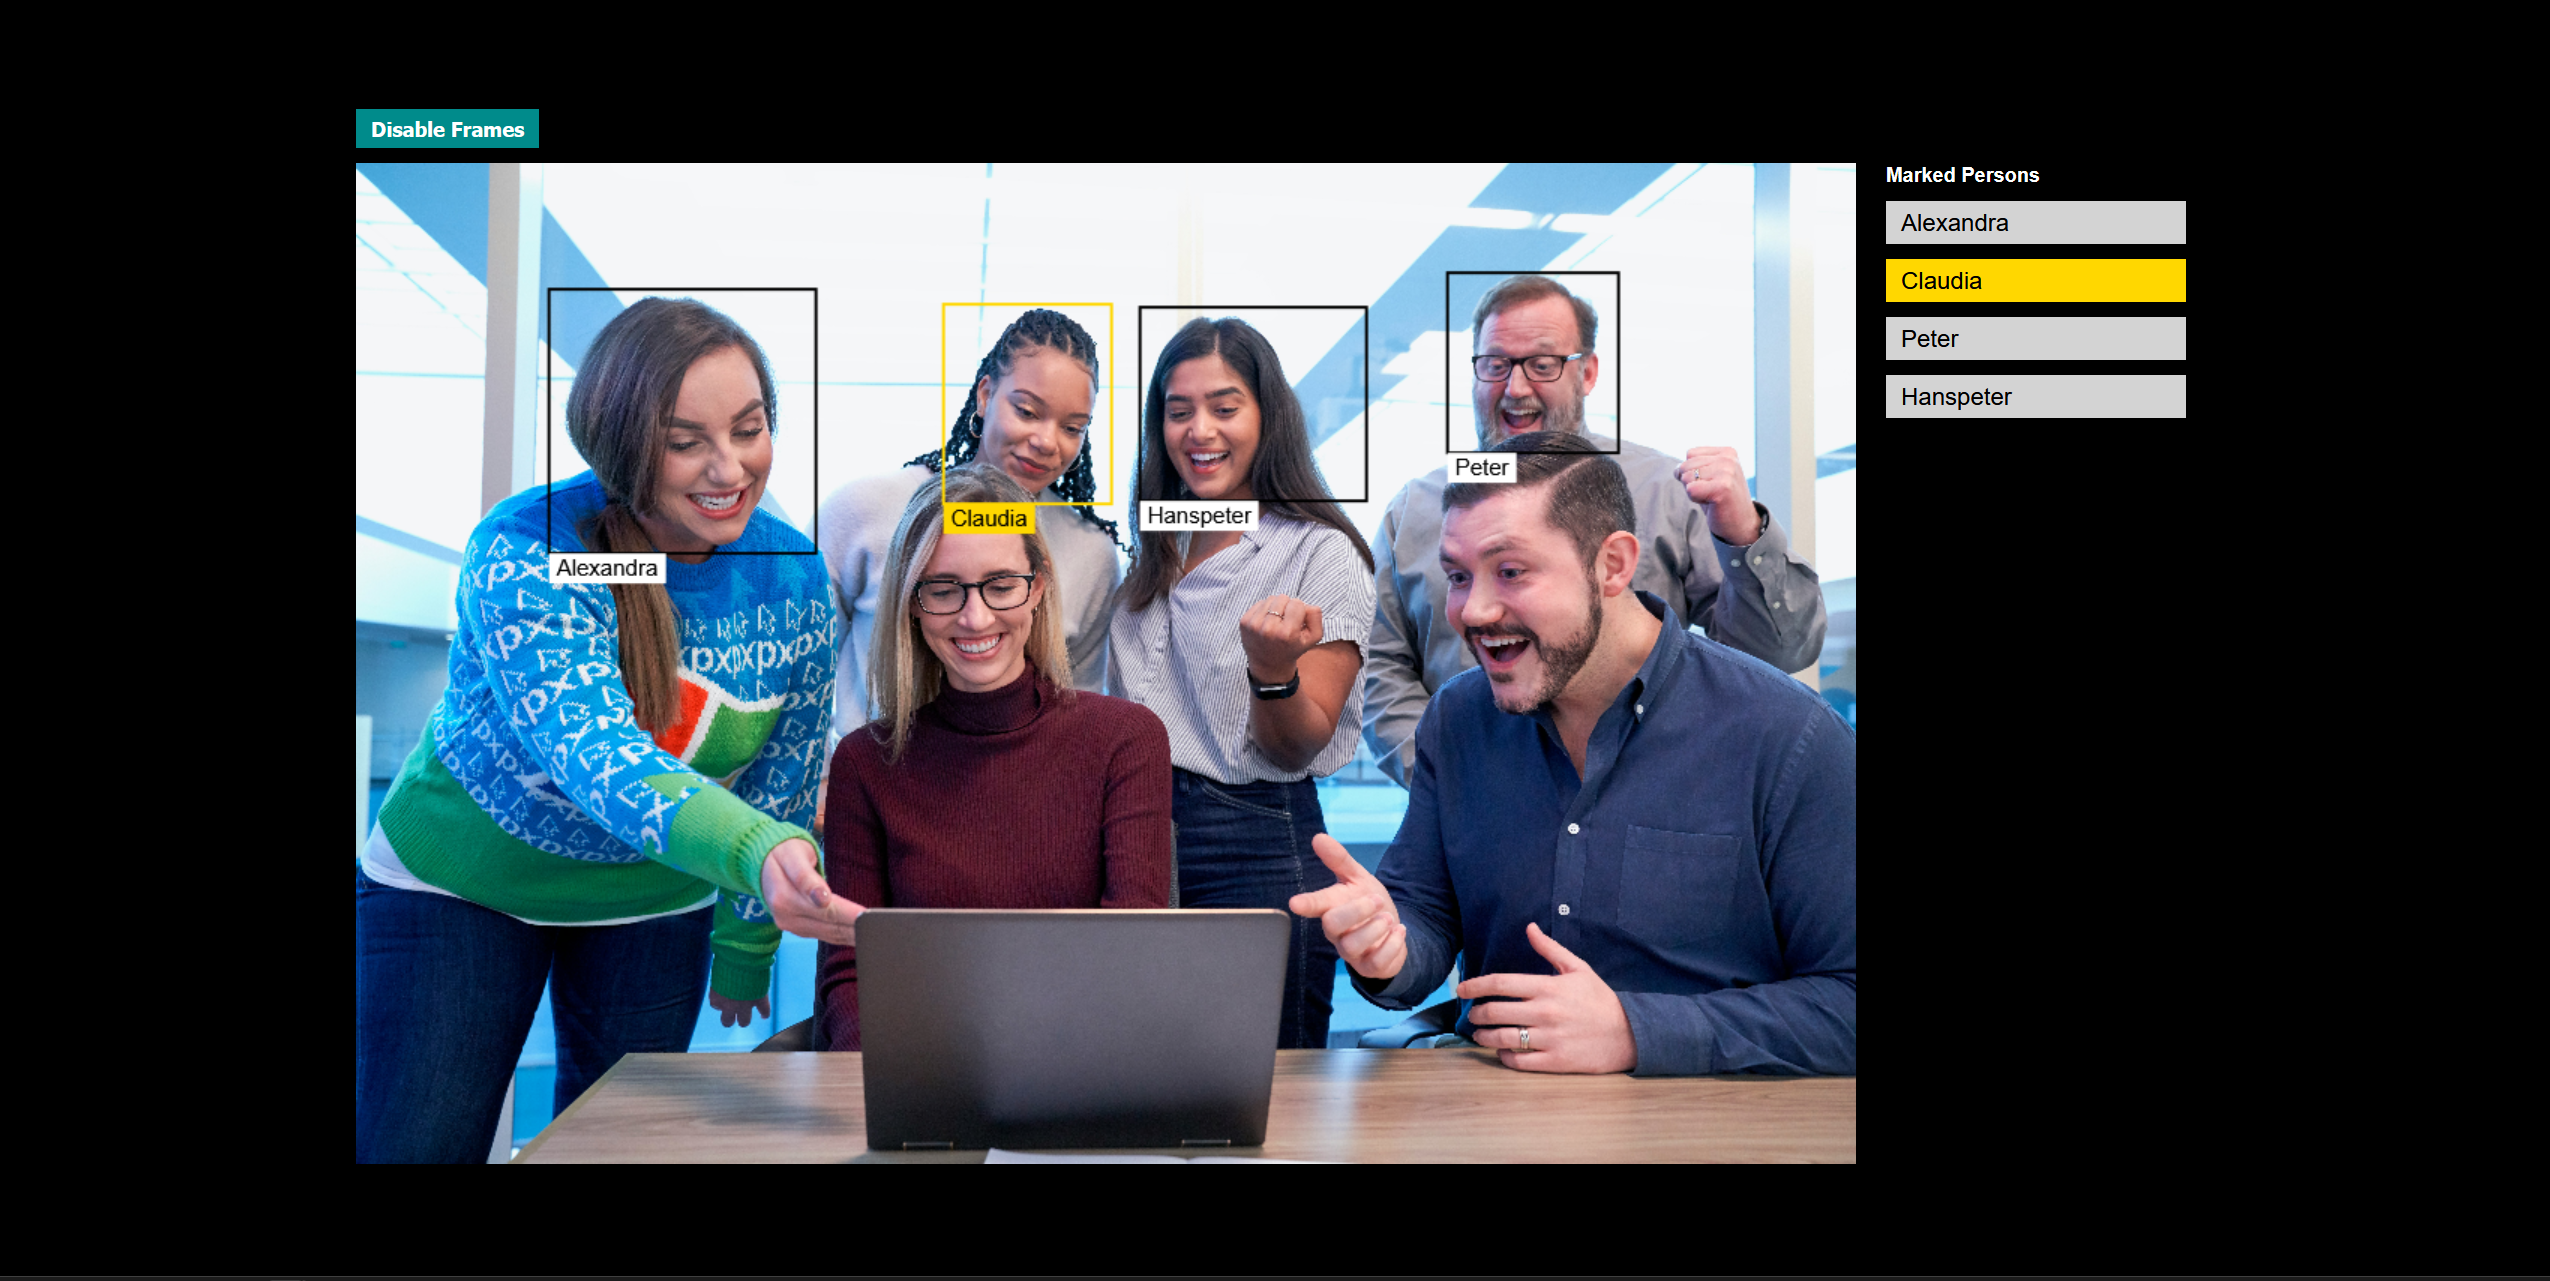
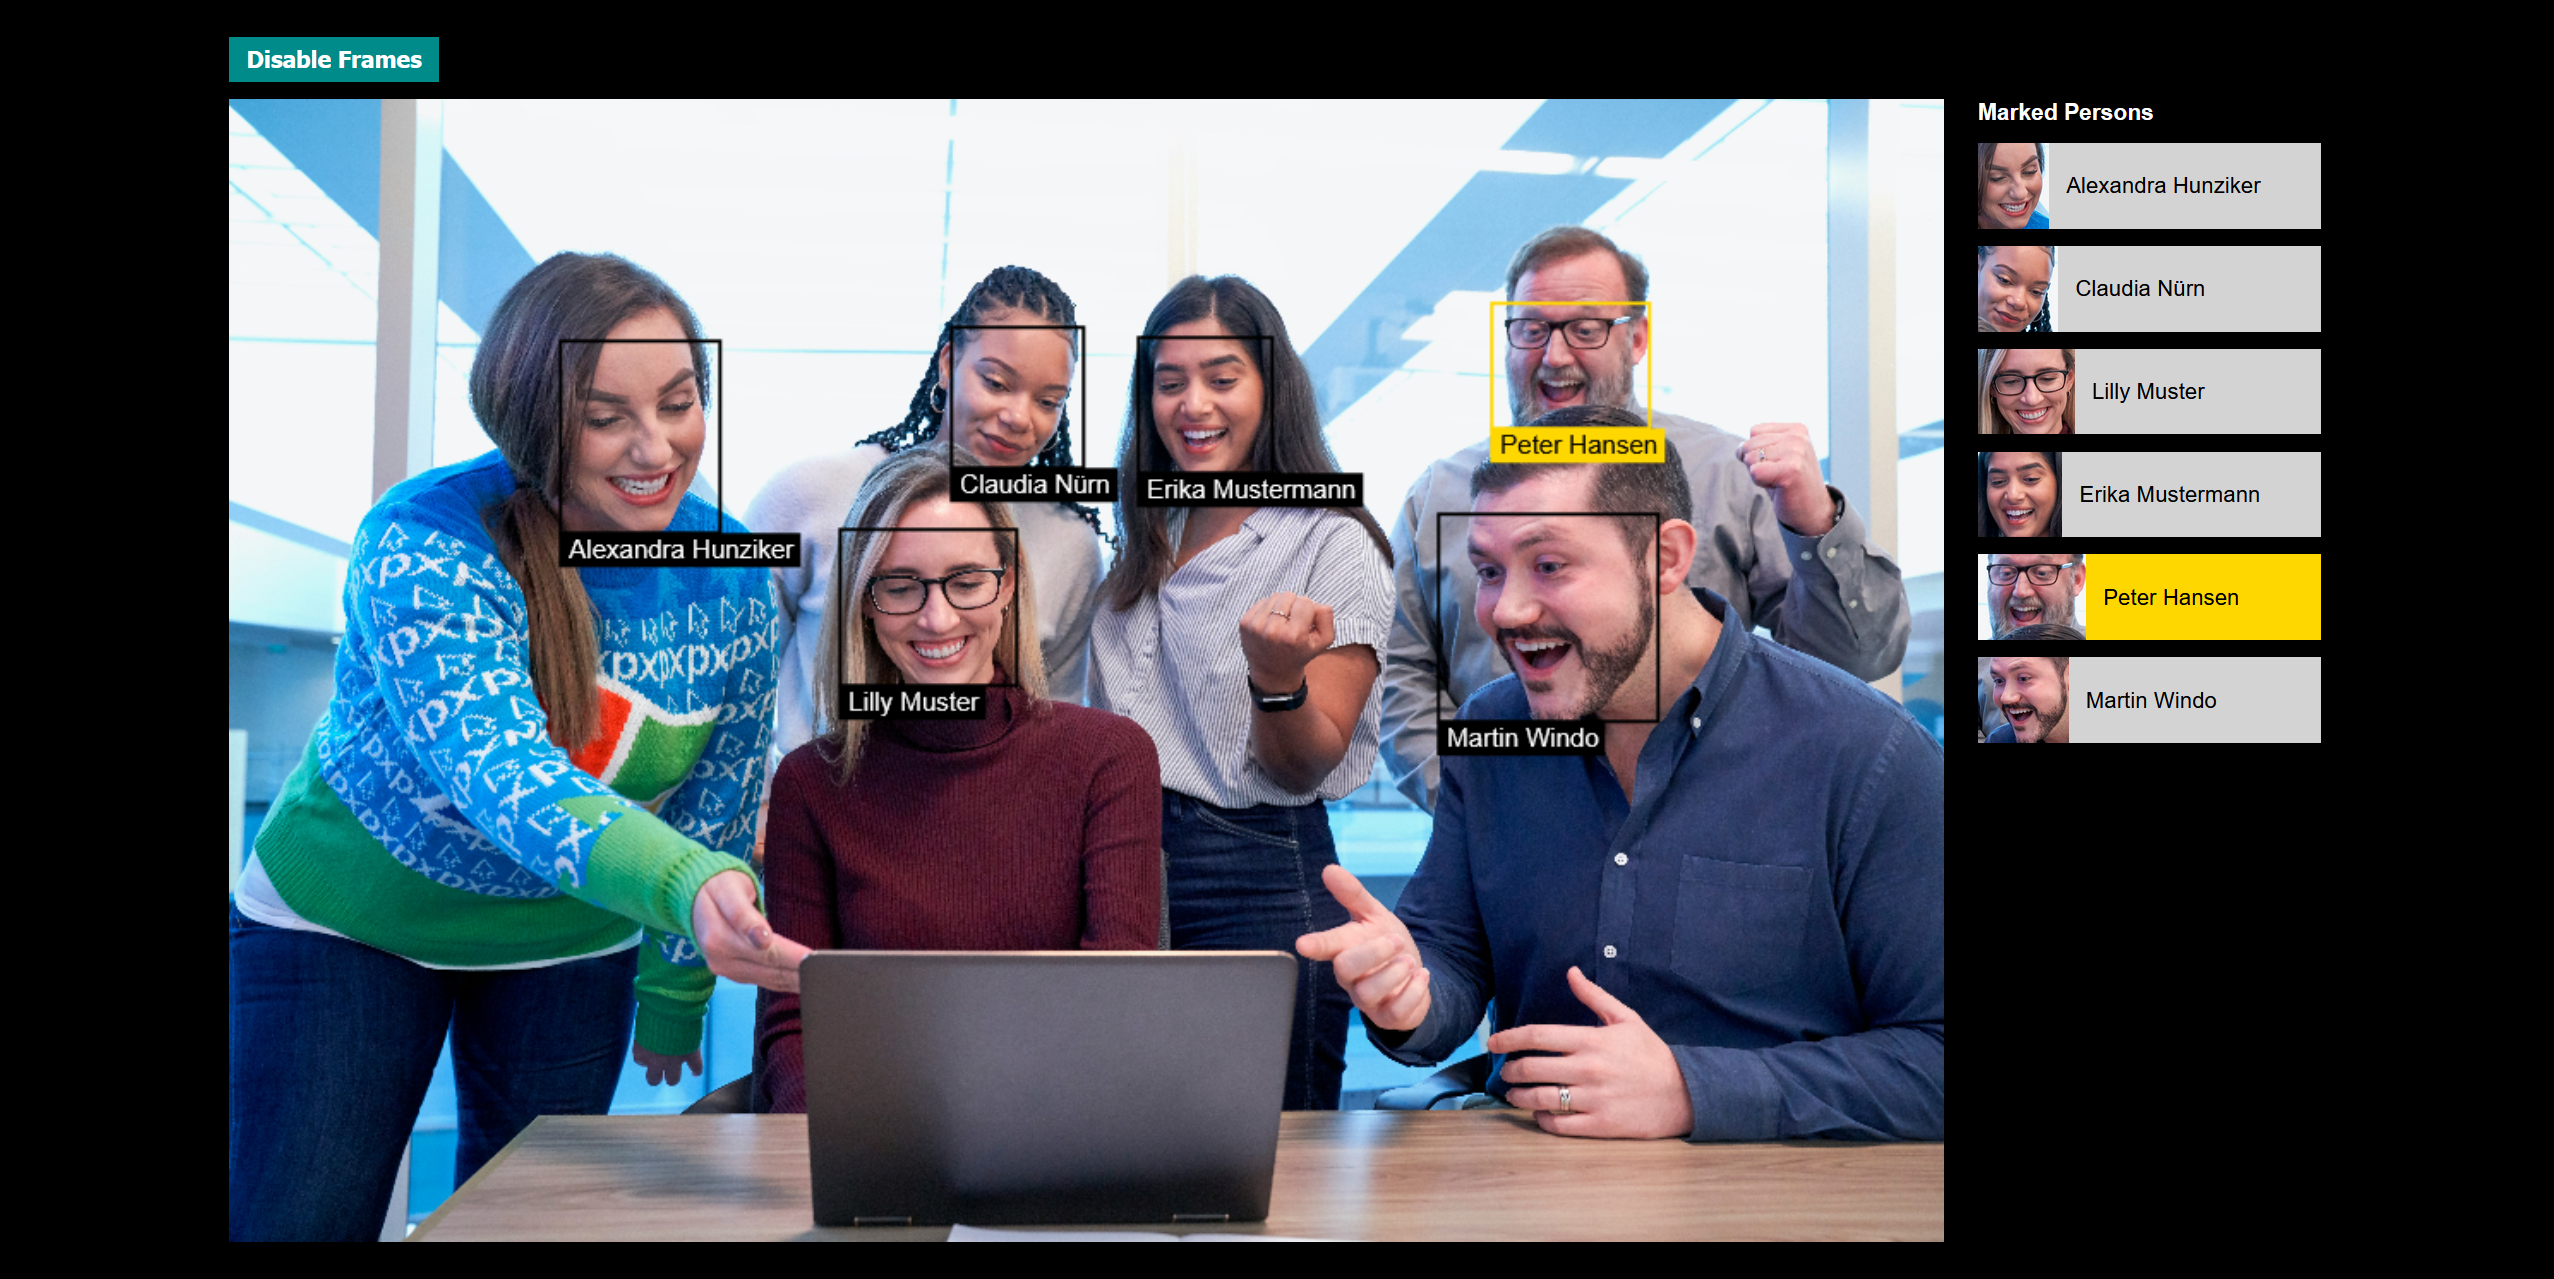
add person image cutout

diff --git a/JavaScript/imageMarker/script.js b/JavaScript/imageMarker/script.js
@@ -9,23 +9,33 @@ let showFrames = true;
 const databaseUsers = [
   {
     id: 1,
-    name: "Alexandra",
+    name: "Alexandra Hunziker",
     username: "alex123",
   },
   {
     id: 2,
-    name: "Peter",
+    name: "Peter Hansen",
     username: "Peter188",
   },
   {
     id: 3,
-    name: "Claudia",
+    name: "Claudia Nürn",
     username: "CTester1",
   },
   {
-    id: 3,
-    name: "Hanspeter",
-    username: "Hanspeter12",
+    id: 4,
+    name: "Erika Mustermann",
+    username: "erika",
+  },
+  {
+    id: 5,
+    name: "Lilly Muster",
+    username: "lilly",
+  },
+  {
+    id: 6,
+    name: "Martin Windo",
+    username: "margin",
   },
 ];
 
@@ -70,6 +80,7 @@ function createPerson(startX, startY, offsetX, offsetY) {
     offsetY,
     person,
     highlighted: false,
+    cutoutImage: cropSourceImageToDataURL(startX, startY, offsetX, offsetY),
   };
 
   markedPersons.push(markedPerson);
@@ -154,7 +165,15 @@ function drawPersonsInList() {
 
   markedPersons.forEach((markedPerson, index) => {
     const personItemEl = document.createElement("li");
-    personItemEl.textContent = markedPerson.person.name;
+
+    const nameEl = document.createElement("div");
+    nameEl.textContent = markedPerson.person.name;
+
+    const imageEl = document.createElement("img");
+    imageEl.src = markedPerson.cutoutImage;
+
+    personItemEl.appendChild(imageEl);
+    personItemEl.appendChild(nameEl);
 
     personItemEl.addEventListener("mouseenter", () => {
       markedPerson.highlighted = true;
@@ -271,6 +290,25 @@ function toggleShowFrames() {
   showFrames = !showFrames;
   toggleBtn.textContent = showFrames ? "Disable Frames" : "Enable Frames";
   reDraw();
+}
+
+function cropSourceImageToDataURL(xCanvas, yCanvas, wCanvas, hCanvas) {
+  const scaleX = image.naturalWidth / markable.width;
+  const scaleY = image.naturalHeight / markable.height;
+
+  const sx = Math.round(xCanvas * scaleX);
+  const sy = Math.round(yCanvas * scaleY);
+  const sw = Math.round(wCanvas * scaleX);
+  const sh = Math.round(hCanvas * scaleY);
+
+  const out = document.createElement("canvas");
+  out.width = sw;
+  out.height = sh;
+
+  const octx = out.getContext("2d");
+  octx.drawImage(image, sx, sy, sw, sh, 0, 0, sw, sh);
+
+  return out.toDataURL("image/jpeg");
 }
 
 createImage();

diff --git a/JavaScript/imageMarker/style.css b/JavaScript/imageMarker/style.css
@@ -58,20 +58,29 @@ nav.navbar button:hover {
 #persons-list li {
   color: black;
   background-color: lightgray;
-  padding: 5px 10px;
   cursor: pointer;
+  margin: 10px 0;
+  display: flex;
+  justify-items: space-between;
+  align-items: center;
 }
 
 #persons-list li:hover {
   background-color: gold;
 }
 
-li {
-  margin: 10px 0;
+#persons-list li:last-child {
+  margin-bottom: 0;
 }
 
-li:last-child {
-  margin-bottom: 0;
+#persons-list li img {
+  margin-right: 10px;
+  max-height: 50px;
+  width: auto;
+}
+
+#persons-list li div {
+  font-size: 13px;
 }
 
 h5 {
